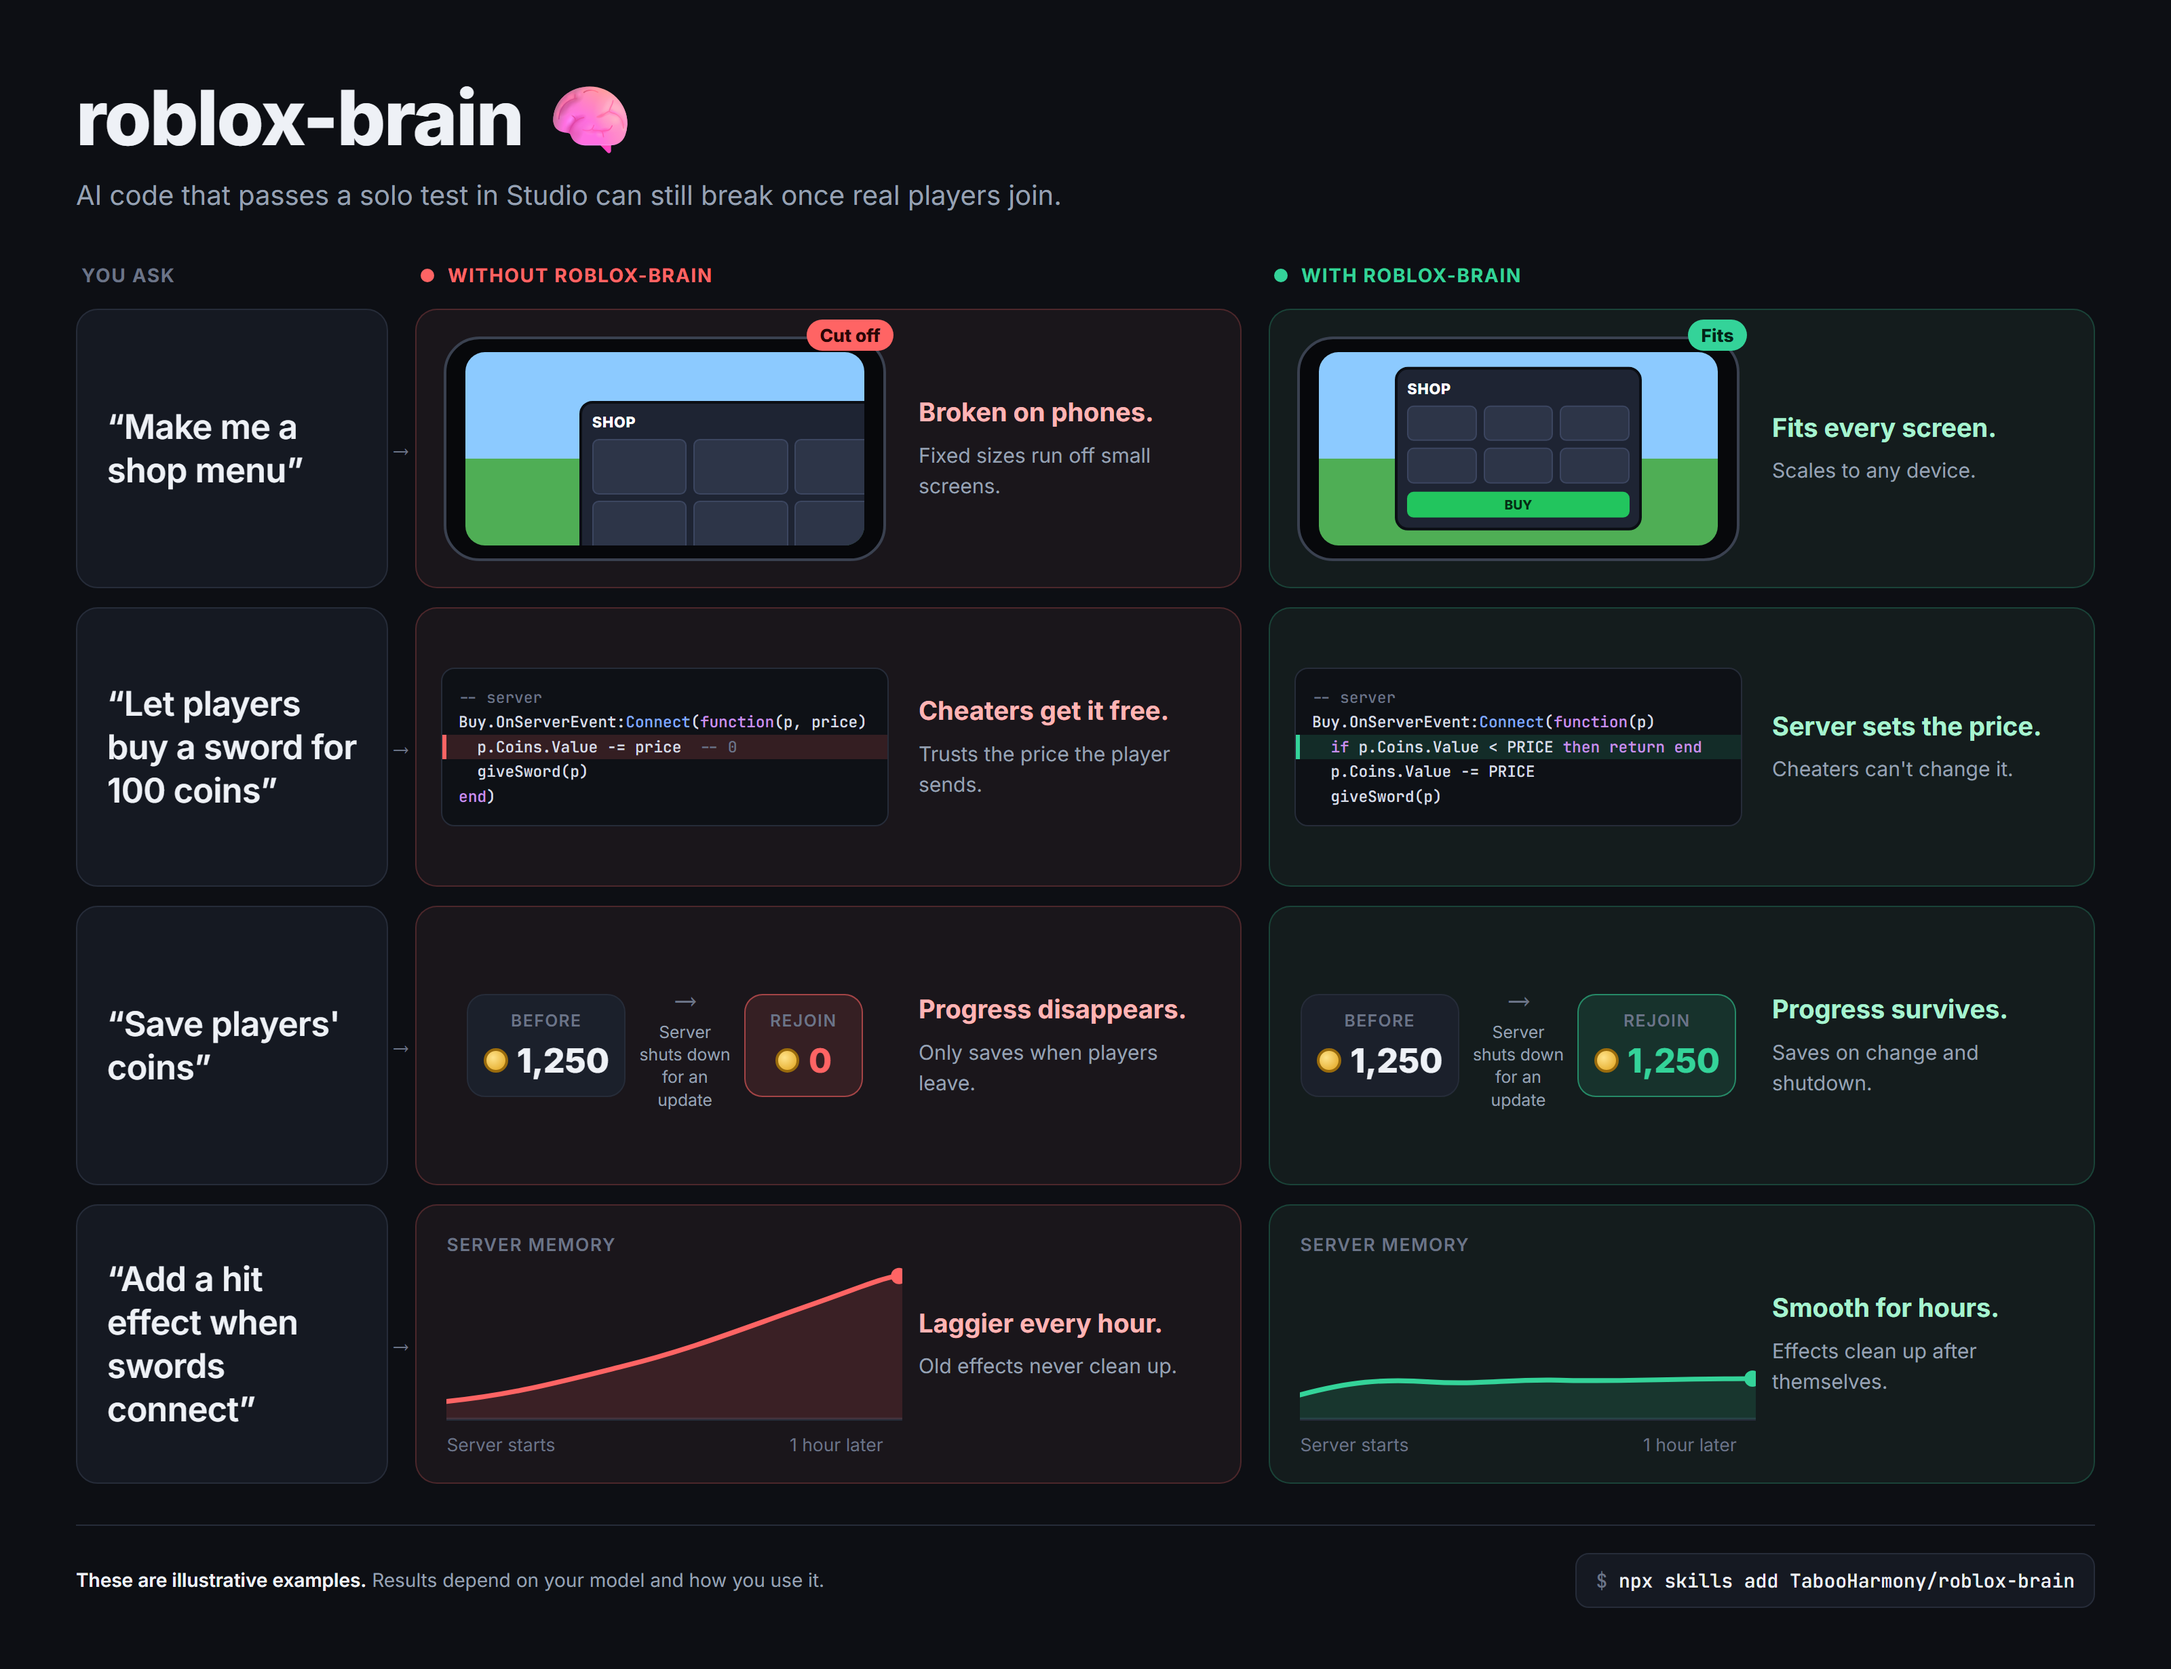
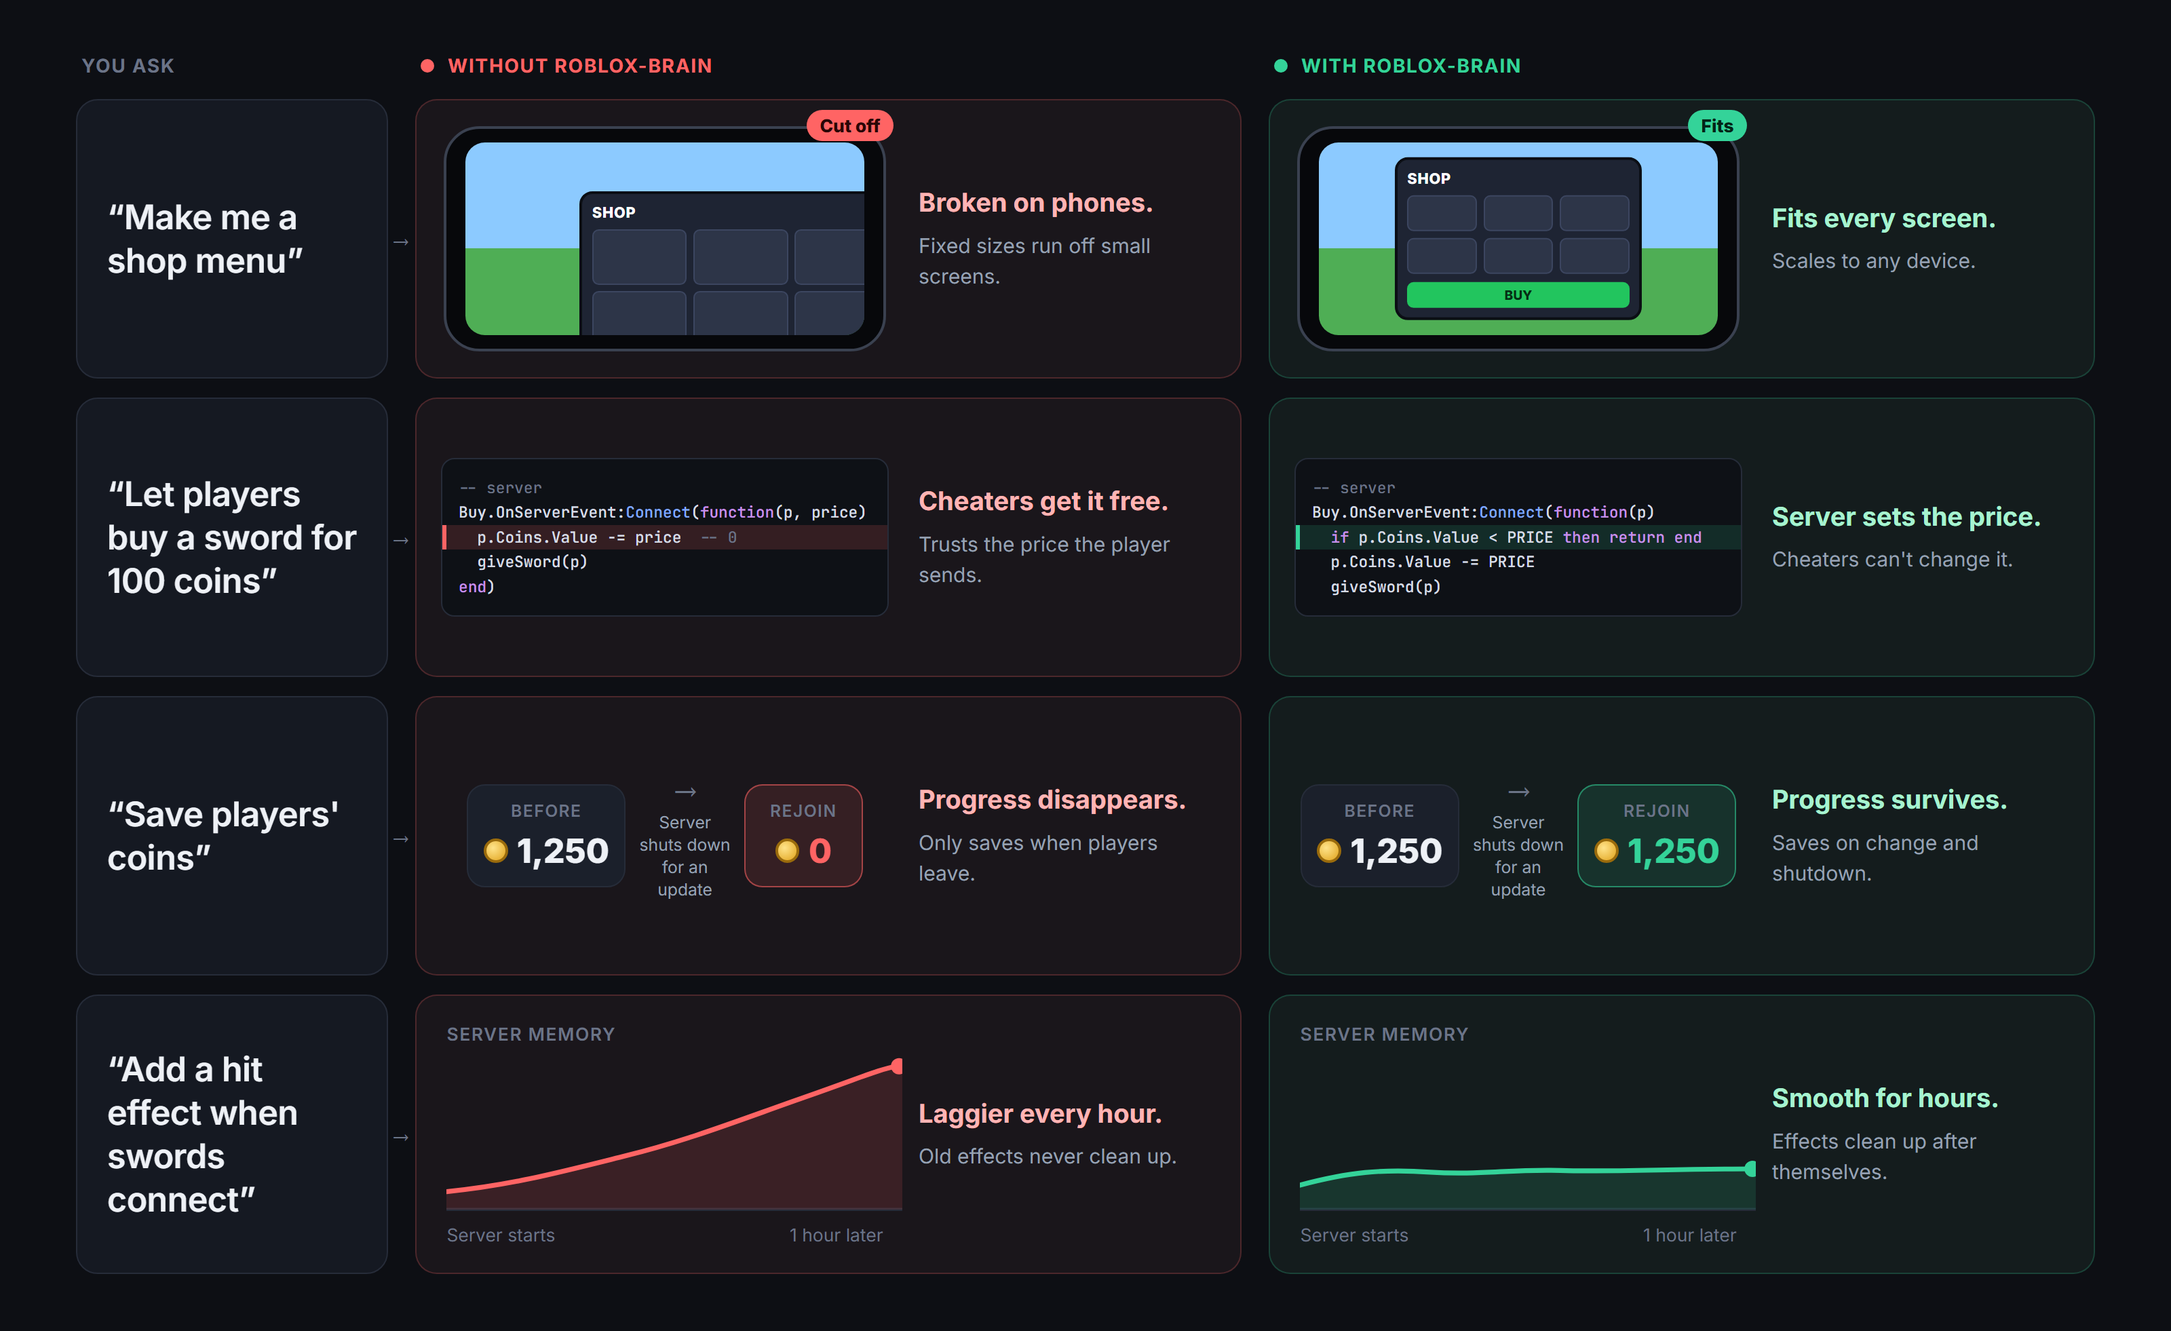
Crop README illustration and move disclaimer to text

diff --git a/README.md b/README.md
@@ -10,6 +10,8 @@
 
 <img src="assets/before-after.png" alt="Side-by-side examples of Roblox code without and with roblox-brain: shop menu on phones, cheater-proof purchases, saving progress, and server memory over time" width="100%">
 
+<sub><em>These are illustrative examples. Results depend on your model and how you use it.</em></sub>
+
 </div>
 
 ## Pick a skill set for your agent
